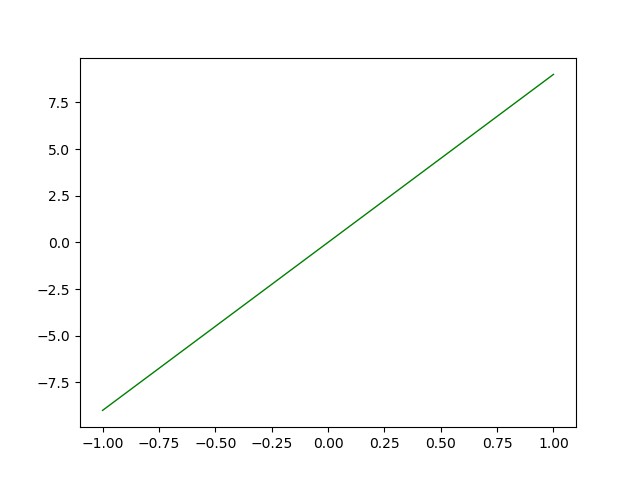
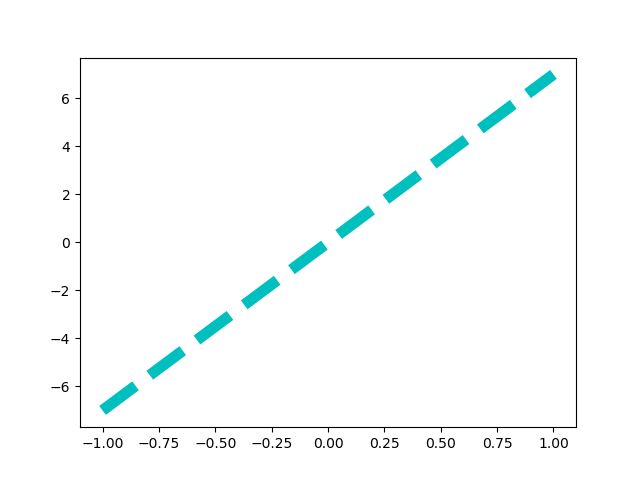
first commit

diff --git a/example.py b/example.py
@@ -2,7 +2,7 @@ import matplotlib.pyplot as plt
 import numpy as np
 
 x = np.linspace(-1, 1, 50)
-y = 9*x
+y = 7*x
 
-plt.plot(x, y,'g-',linewidth=1)
+plt.plot(x, y,'c--',linewidth=8)
 plt.savefig('chart.png')

diff --git a/README.md b/README.md
@@ -1,4 +1,4 @@
-# Plot no 56 
+# Plot no 57 
 
 matplotlib example
 
